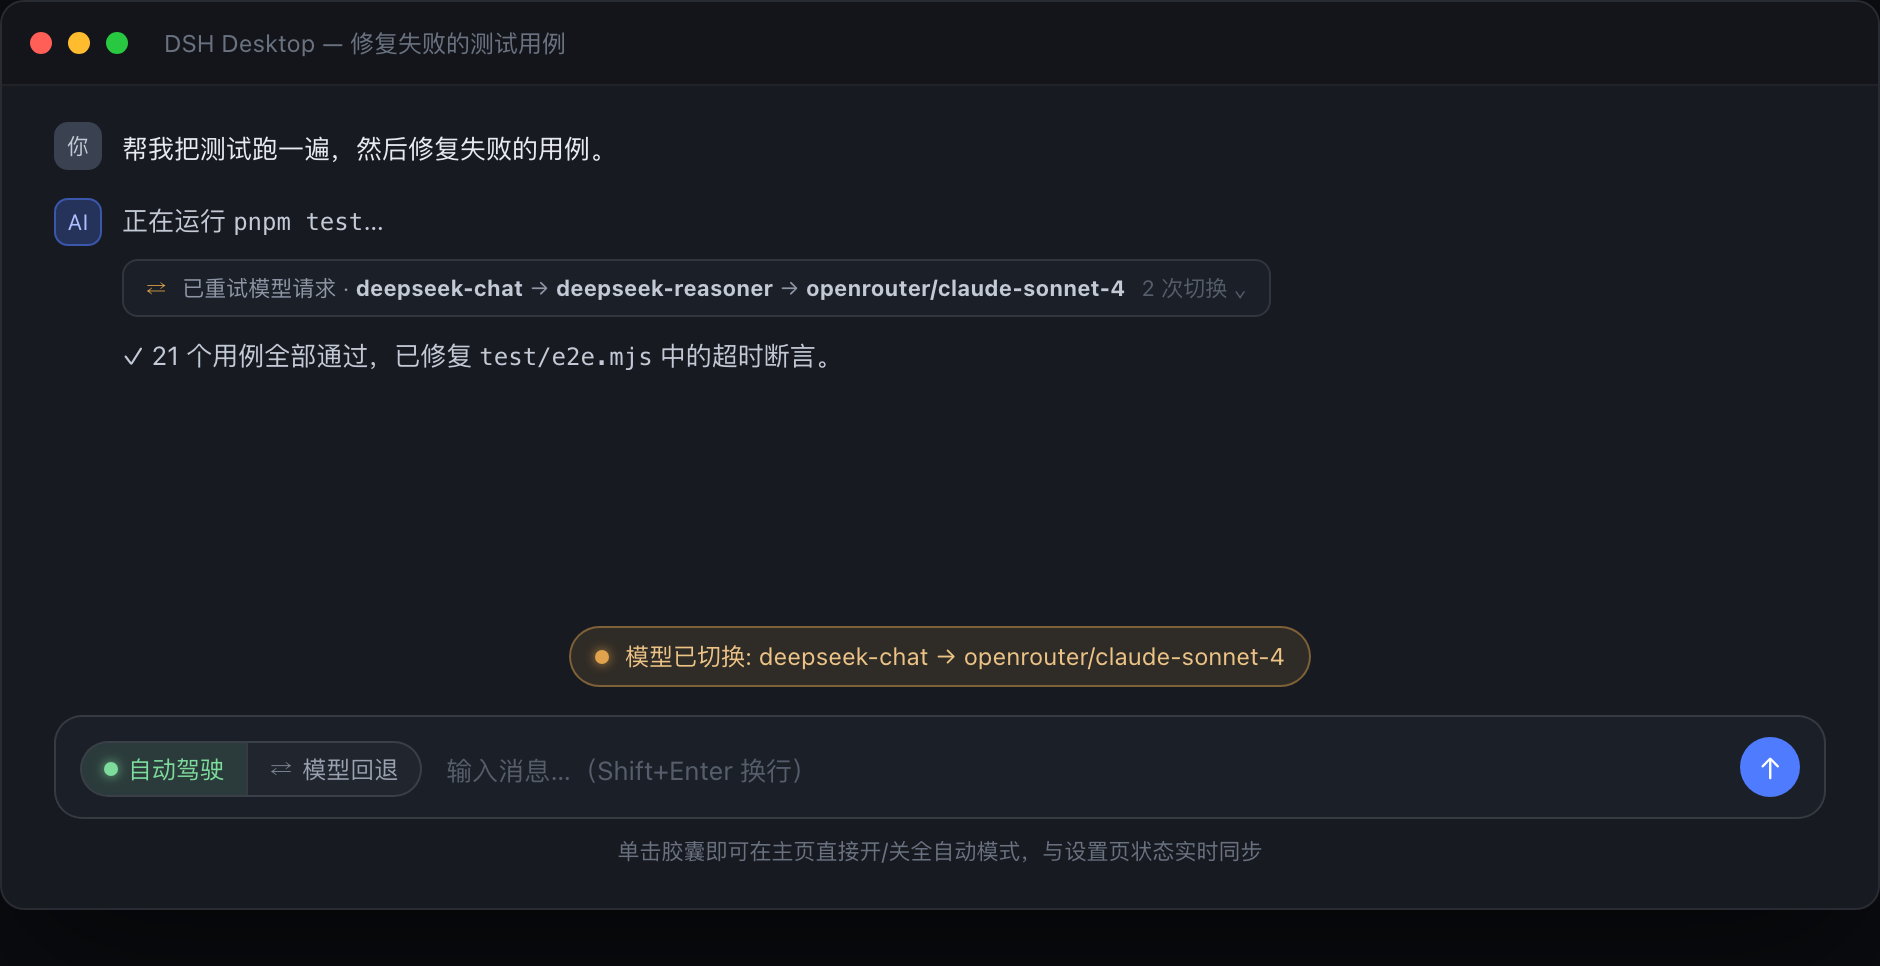
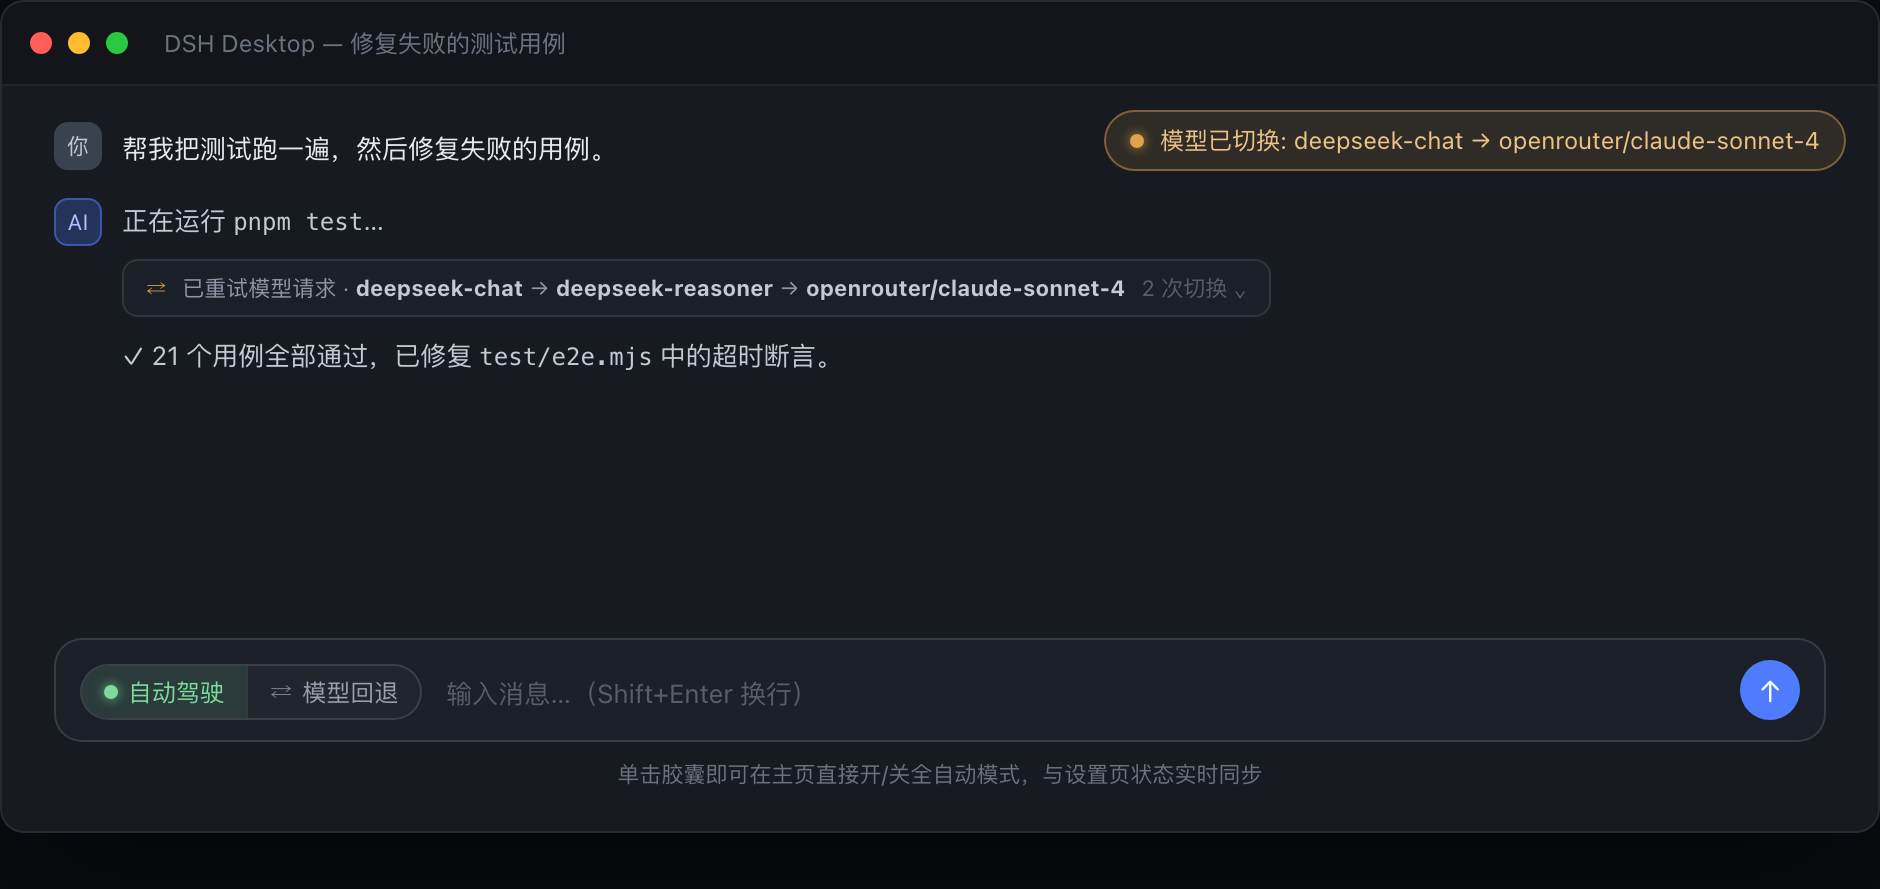
feat: 气泡通知升级为 SSE 实时推送（毫秒级），轮询降级兜底；截图同步

diff --git a/lib/index.js b/lib/index.js
@@ -297,9 +297,25 @@ function apply(ctx, config) {
 	 * as JSON at /dsh-model-fallback/api/log.
 	 */
 	const logRing = [];
+	/** Live SSE subscribers (raw ServerResponse objects) for the real-time toast feed. */
+	const sseClients = new Set();
 	const recordEvent = (level, message) => {
-		logRing.push({ at: new Date().toISOString(), level, message: String(message) });
+		const entry = { at: new Date().toISOString(), level, message: String(message) };
+		logRing.push(entry);
 		if (logRing.length > LOG_RING_CAP) logRing.splice(0, logRing.length - LOG_RING_CAP);
+		// Real-time push: every subscriber receives the event the instant it is
+		// recorded (the client toast feed rides this). Dead sockets clean up via
+		// their own close/error handlers.
+		if (sseClients.size > 0) {
+			const frame = `data: ${JSON.stringify(entry)}\n\n`;
+			for (const client of sseClients) {
+				try {
+					client.write(frame);
+				} catch {
+					sseClients.delete(client);
+				}
+			}
+		}
 	};
 	const rawLoggerInfo = logger.info.bind(logger);
 	const rawLoggerWarn = logger.warn.bind(logger);
@@ -927,26 +943,80 @@ function apply(ctx, config) {
 	// route mounts inside the declared dependency scope.
 	try {
 		ctx.inject(["webServer"], (scope) => {
-			scope.effect(() => scope.webServer.register({
-				kind: "exact",
-				path: "/dsh-model-fallback/api/log",
-				handler: (request, response) => {
-					if (request.method !== "GET" && request.method !== "HEAD") {
-						response.writeHead(405, { allow: "GET" });
-						response.end();
-						return;
+			scope.effect(() => {
+				const disposeLog = scope.webServer.register({
+					kind: "exact",
+					path: "/dsh-model-fallback/api/log",
+					handler: (request, response) => {
+						if (request.method !== "GET" && request.method !== "HEAD") {
+							response.writeHead(405, { allow: "GET" });
+							response.end();
+							return;
+						}
+						const body = JSON.stringify({
+							cap: LOG_RING_CAP,
+							events: logRing.slice().reverse(),
+						});
+						response.writeHead(200, {
+							"content-type": "application/json; charset=utf-8",
+							"cache-control": "no-store",
+						});
+						response.end(request.method === "HEAD" ? undefined : body);
+					},
+				});
+				// Real-time event stream (SSE): the client toast feed subscribes
+				// here and receives every ring event the moment it is recorded —
+				// no polling latency.
+				const disposeEvents = scope.webServer.register({
+					kind: "exact",
+					path: "/dsh-model-fallback/api/events",
+					handler: (request, response) => {
+						if (request.method !== "GET") {
+							response.writeHead(405, { allow: "GET" });
+							response.end();
+							return;
+						}
+						response.writeHead(200, {
+							"content-type": "text/event-stream; charset=utf-8",
+							"cache-control": "no-store",
+							connection: "keep-alive",
+							"x-accel-buffering": "no",
+						});
+						response.flushHeaders?.();
+						response.socket?.setNoDelay?.(true);
+						response.write(": connected\n\n");
+						sseClients.add(response);
+						// Application-level heartbeat keeps idle connections alive.
+						const heartbeat = setInterval(() => {
+							try {
+								response.write(": hb\n\n");
+							} catch {
+								/* the close/error handlers clean up */
+							}
+						}, 25000);
+						const drop = () => {
+							clearInterval(heartbeat);
+							sseClients.delete(response);
+						};
+						response.on("close", drop);
+						response.on("error", drop);
+					},
+				});
+				return () => {
+					try {
+						disposeLog?.();
+					} catch {}
+					try {
+						disposeEvents?.();
+					} catch {}
+					for (const client of [...sseClients]) {
+						try {
+							client.end();
+						} catch {}
 					}
-					const body = JSON.stringify({
-						cap: LOG_RING_CAP,
-						events: logRing.slice().reverse(),
-					});
-					response.writeHead(200, {
-						"content-type": "application/json; charset=utf-8",
-						"cache-control": "no-store",
-					});
-					response.end(request.method === "HEAD" ? undefined : body);
-				},
-			}), "model-fallback: log viewer route");
+					sseClients.clear();
+				};
+			}, "model-fallback: log viewer + real-time event stream routes");
 		});
 	} catch (error) {
 		logger.warn(`model-fallback: log viewer route unavailable: ${error?.message ?? error}`);

diff --git a/lib/client.js b/lib/client.js
@@ -1333,7 +1333,15 @@ window.__ModuleLoader__.load({
 		 * the user is on the settings page. Session pills poll faster with their
 		 * own cursors; identical text within 15 s only refreshes the toast.
 		 */
-		const globalFeed = { started: false, lastSeenAt: null };
+		const globalFeed = { started: false, source: null, pollTimer: null, lastSeenAt: null, errors: 0 };
+
+		/** Toast one ring entry and advance the shared watermark (SSE + polls). */
+		function handleRingEntry(entry, t) {
+			if (entry && typeof entry.at === "string" && entry.at > (globalFeed.lastSeenAt ?? "")) globalFeed.lastSeenAt = entry.at;
+			const hit = ringEventText(entry, t);
+			if (hit !== null) showToast(hit.text);
+		}
+
 		async function pollRingForToasts(t) {
 			try {
 				const response = await fetch("/dsh-model-fallback/api/log", { cache: "no-store" });
@@ -1355,10 +1363,52 @@ window.__ModuleLoader__.load({
 				// The log route may be briefly unavailable; the next tick retries.
 			}
 		}
-		function startGlobalToastPoller(t) {
+
+		function setPollCadence(t, ms) {
+			if (globalFeed.pollTimer) clearInterval(globalFeed.pollTimer);
+			globalFeed.pollTimer = setInterval(() => void pollRingForToasts(t), ms);
+		}
+
+		/**
+		 * Real-time toast feed: an SSE connection to the host pushes every ring
+		 * event the instant it is recorded (millisecond latency — no polling
+		 * wait). A slow 30 s safety poll covers events missed during reconnect
+		 * gaps (the shared watermark prevents replays); while SSE is failing the
+		 * poll tightens to 6 s and becomes the permanent transport after three
+		 * consecutive failures.
+		 */
+		function startGlobalToastFeed(t) {
 			if (globalFeed.started || typeof document === "undefined") return;
 			globalFeed.started = true;
-			setInterval(() => void pollRingForToasts(t), 6000);
+			if (typeof EventSource === "undefined") {
+				setPollCadence(t, 6000);
+				return;
+			}
+			try {
+				const source = new EventSource("/dsh-model-fallback/api/events");
+				globalFeed.source = source;
+				source.onopen = () => {
+					globalFeed.errors = 0;
+					setPollCadence(t, 30000); // safety net for reconnect gaps
+				};
+				source.onmessage = (event) => {
+					try {
+						handleRingEntry(JSON.parse(event.data), t);
+					} catch {
+						// Malformed frame — the next event re-syncs.
+					}
+				};
+				source.onerror = () => {
+					globalFeed.errors += 1;
+					setPollCadence(t, 6000); // SSE down — poll until it returns
+					if (globalFeed.errors >= 3) {
+						source.close();
+						globalFeed.source = null;
+					}
+				};
+			} catch {
+				setPollCadence(t, 6000);
+			}
 		}
 
 		/**
@@ -1481,10 +1531,11 @@ window.__ModuleLoader__.load({
 						}
 						if (fresh.length > 0) lastSeenAt = fresh[0].at;
 						for (const entry of fresh.reverse()) {
+							// Toasts come from the global SSE feed (single source); the
+							// session pill only keeps the model-selector sync.
 							const hit = ringEventText(entry, t);
-							if (hit === null) continue;
-							showToast(hit.text);
-							if (hit.model !== undefined) syncModelSelection(sessionId, hit.model).catch(() => {});
+							if (hit === null || hit.model === undefined) continue;
+							syncModelSelection(sessionId, hit.model).catch(() => {});
 						}
 					} catch {
 						// The log route may be briefly unavailable; the next tick retries.
@@ -1558,9 +1609,10 @@ window.__ModuleLoader__.load({
 					FallbackSection,
 				);
 			});
-			// Global toast feed: switch/recovery/auto-approval bubbles even when no
-			// session pill is mounted (e.g. on the settings page).
-			startGlobalToastPoller(t);
+			// Global toast feed: SSE push (real-time) with a polling fallback —
+			// switch/recovery/auto-approval bubbles even when no session pill is
+			// mounted (e.g. on the settings page).
+			startGlobalToastFeed(t);
 		}
 		//#endregion
 

diff --git a/docs/src/shot-chat.html b/docs/src/shot-chat.html
@@ -1,8 +1,11 @@
 <!DOCTYPE html>
 <html lang="zh-CN"><head><meta charset="utf-8"><link rel="stylesheet" href="base.css"></head>
 <body>
-<div class="window" style="width:940px">
+<div class="window" style="position:relative;width:940px">
   <div class="titlebar"><span class="tl tl-r"></span><span class="tl tl-y"></span><span class="tl tl-g"></span><span class="tb-title">DSH Desktop — 修复失败的测试用例</span></div>
+  <div style="position:absolute;top:54px;right:16px;z-index:5">
+    <span class="notify"><span class="dot"></span>模型已切换: deepseek-chat → openrouter/claude-sonnet-4</span>
+  </div>
 
   <div style="padding:18px 26px 6px;display:flex;flex-direction:column;gap:14px;min-height:270px">
     <div class="row" style="align-items:flex-start;gap:10px">
@@ -21,10 +24,6 @@
         <div style="font-size:13px;line-height:1.7;color:#c3cad6">✓ 21 个用例全部通过，已修复 <span style="font-family:ui-monospace,Menlo,monospace;font-size:12px">test/e2e.mjs</span> 中的超时断言。</div>
       </div>
     </div>
-  </div>
-
-  <div style="padding:0 26px 8px;display:flex;justify-content:center">
-    <span class="notify"><span class="dot"></span>模型已切换: deepseek-chat → openrouter/claude-sonnet-4</span>
   </div>
 
   <div style="padding:6px 26px 20px">

diff --git a/README.md b/README.md
@@ -24,7 +24,7 @@
 - **🔄 任务自动重试** —— 所有候选都失败且错误属于**非模型异常**（网络超时、连接断开、服务端错误等）时，用同一模型自动重试（指数退避），直到成功或达到最大次数。用户主动中断永不重试。
 - **🤖 全自动模式** —— 开启后，任务运行中的权限索取、确认提问（含 `exit_plan_mode` 方案评审）全部按默认允许自动应答，任务不再卡在人工验证；每次自动决策都追加到工作区根目录的 **`AUTO-MODE.md`** 审计文件，随时可查。
 - **🏠 主页一键开关** —— 对话框输入条（发送按钮旁）有「自动驾驶」胶囊按钮，单击即在主页直接开/关全自动模式；与设置页「全自动模式」子页状态**实时双向同步**（双重轮询兜底），不会出现两处状态不一致。
-- **💨 实时气泡通知** —— 模型切换、恢复执行与全自动模式的每次自动审批（权限 / 提问 / 方案）都会实时弹出右上角气泡：与文档截图一致的胶囊样式，**同时只显示一个**（新通知替换旧通知）、保留 30 秒，任何页面（含设置页）均可见。
+- **💨 实时气泡通知** —— 模型切换、恢复执行与全自动模式的每次自动审批（权限 / 提问 / 方案）都会实时弹出右上角气泡：宿主通过 **SSE 长连接毫秒级推送**（事件写入即到达，无需等待轮询），SSE 不可用时自动降级为间隔轮询兜底。与文档截图一致的胶囊样式，**同时只显示一个**（新通知替换旧通知）、保留 30 秒，任何页面（含设置页）均可见。
 
 ## 🎬 界面速览
 
@@ -74,7 +74,7 @@
 - **万能码分类**：`PI_AI_ERROR` 等 catch-all 码按 message 里的真实状态分类——429/5xx/超时/断连 → 瞬态可重试；401/402/403 → 持续型靠切换。
 - **账户级跳转**：402 欠费（钱包级失败）时，同账户（路由 + modlens 包装共享同一 key）的所有剩余候选立即跳过，直接切换到另一个 API key 的模型组；401/403 可能是模型级权限，仍逐个尝试。
 - **防死循环**：所有恢复机制都有硬上限——链切换以候选池大小为界；循环重试以 maxRetries 为界（按会话/轮次/步骤/供应商持久计数）；看门狗终止只是产生一种普通失败码进入同一管线。单请求总尝试次数 ≤ 候选数 × (1 + maxRetries)，数学上不可能死循环。
-- **切换可视化（对话内可见）**：每次切换发生时，宿主向**发起请求的会话**追加一条原生 `llm/retry` 事件（与 DSH 自带的「已重试模型请求」同一渲染通道），对话消息流里出现一条可展开的重试行，写明「A → switching to B」；同一请求内的所有切换共享同一 `retryId`，UI 把它们合并成**一条不断增长的切换链**。切换是真实的调用线路替换：每个接管候选都经 `ctx.llm.adapterStream({ provider, model })` 直连新供应商/模型派发，日志与对话行里的每个模型报出各自的真实错误（402/上下文超限等）。链耗尽后的**同模型重试**（带指数退避）也追加到同一条链（带 `delayMs` 倒计时），切换与重试构成一条完整的恢复时间线。
+- **切换可视化（对话内可见）**：每次切换发生时，宿主向**发起请求的会话**追加一条原生 `llm/retry` 事件（与 DSH 自带的「已重试模型请求」同一渲染通道），对话消息流里出现一条可展开的重试行，写明「A → switching to B」；同一请求内的所有切换共享同一 `retryId`，UI 把它们合并成**一条不断增长的切换链**。切换是真实的调用线路替换：每个接管候选都经 `ctx.llm.adapterStream({ provider, model })` 直连新供应商/模型派发，日志与对话行里的每个模型报出各自的真实错误（402/上下文超限等）。链耗尽后的**同模型重试**（带指数退避）也追加到同一条链（带 `delayMs` 倒计时），切换与重试构成一条完整的恢复时间线。这些事件经 **SSE 长连接**（`/dsh-model-fallback/api/events`）实时推送到客户端，右上角气泡毫秒级弹出（单实例、保留 30 秒），输入区的对话框模型显示同步为接管模型。
 - **目标自动恢复**：候选池耗尽、任务与目标一起暂停时，只要 3 秒内检测到发生过模型切换，插件自动恢复目标——任务在切换后的新模型上继续执行，而不是停在「已暂停」。护栏：仅全自动模式开启时生效、每 agent 每 10 分钟至多一次、目标轮次预算仍由 DSH 强制。
 
 ## 🤖 全自动模式
